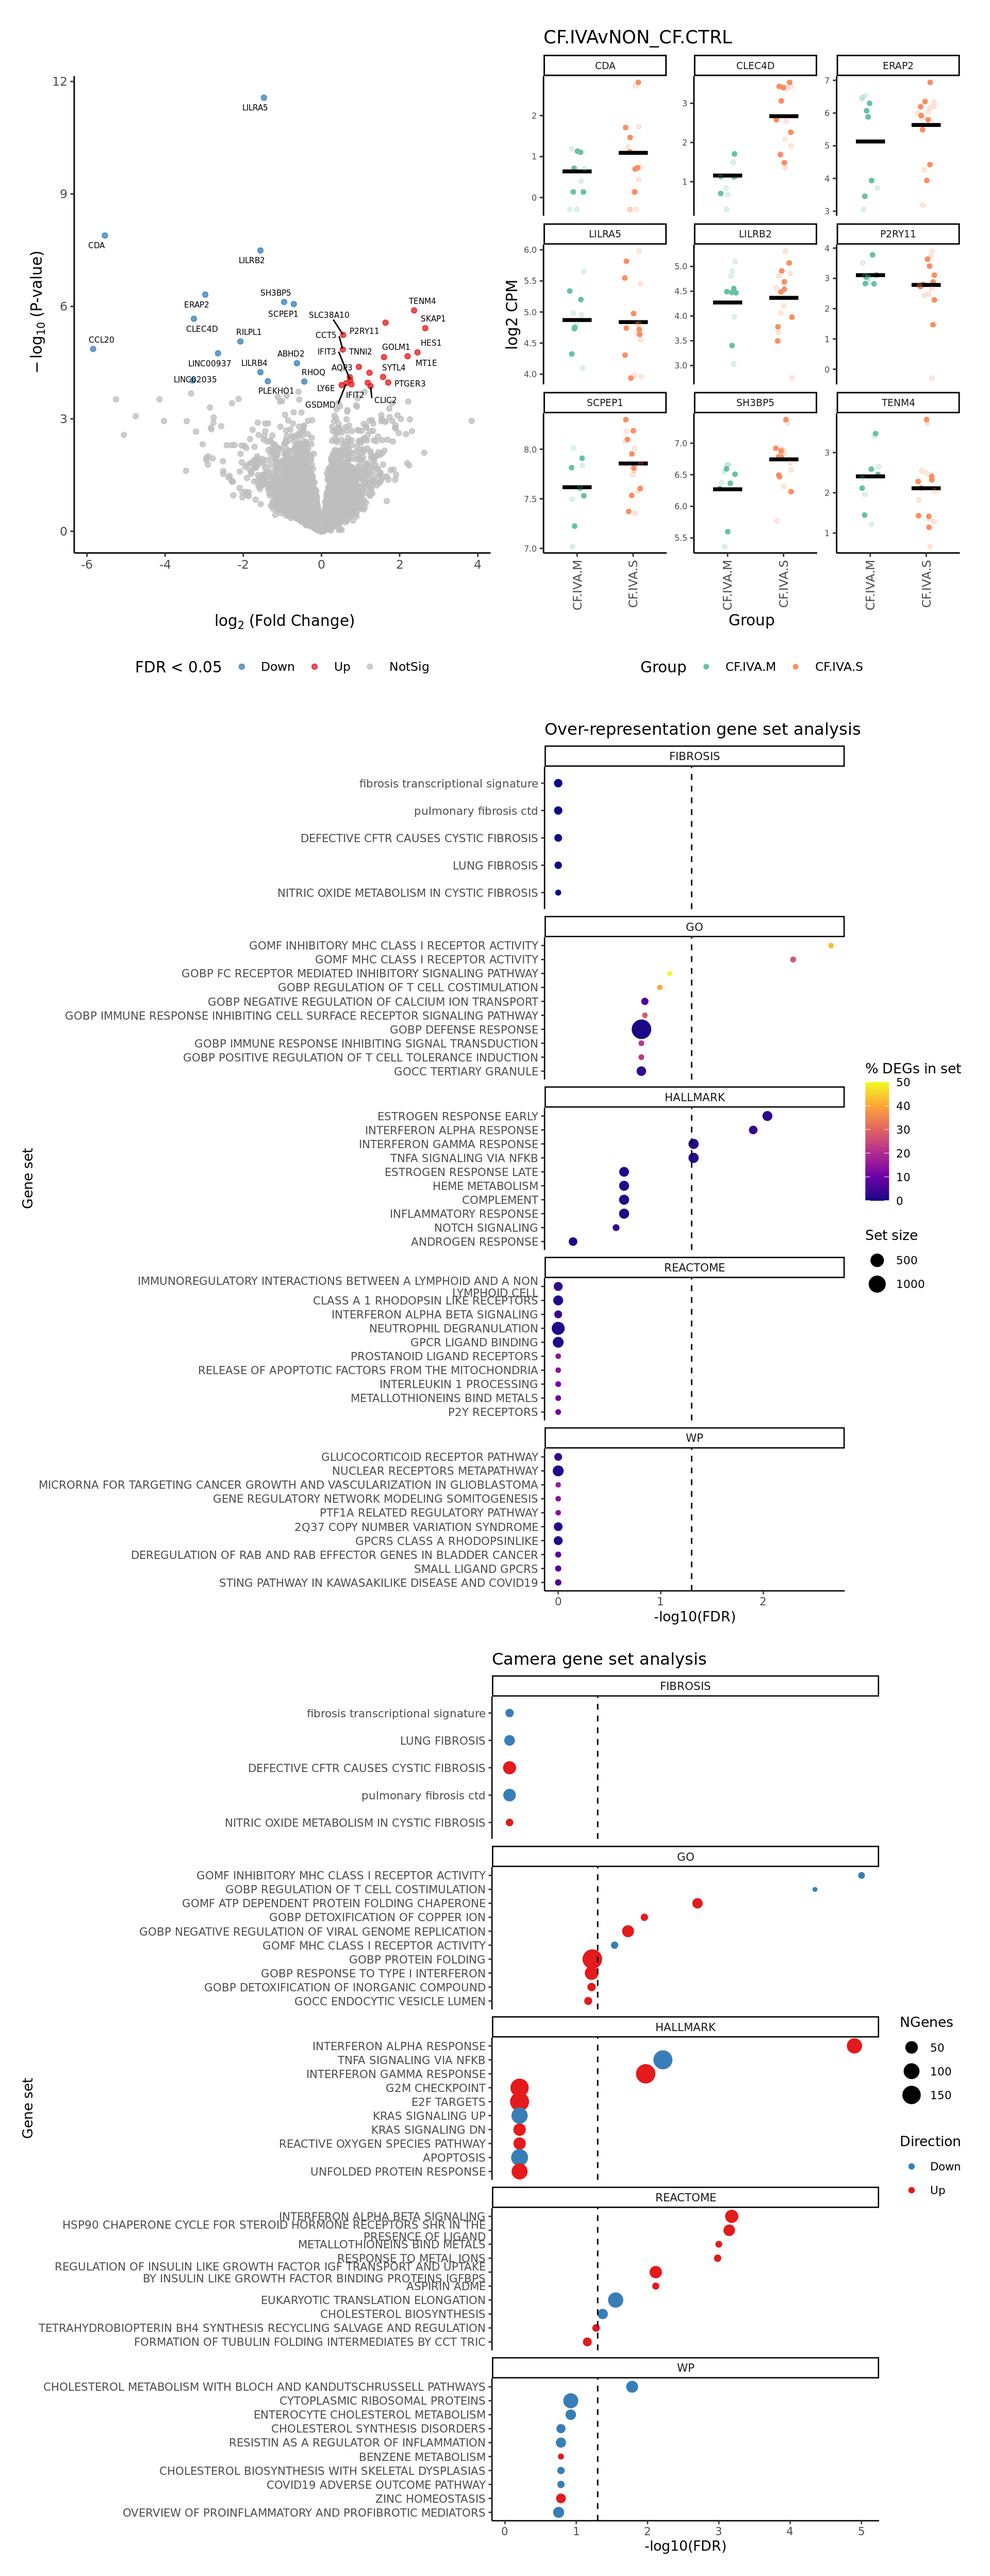
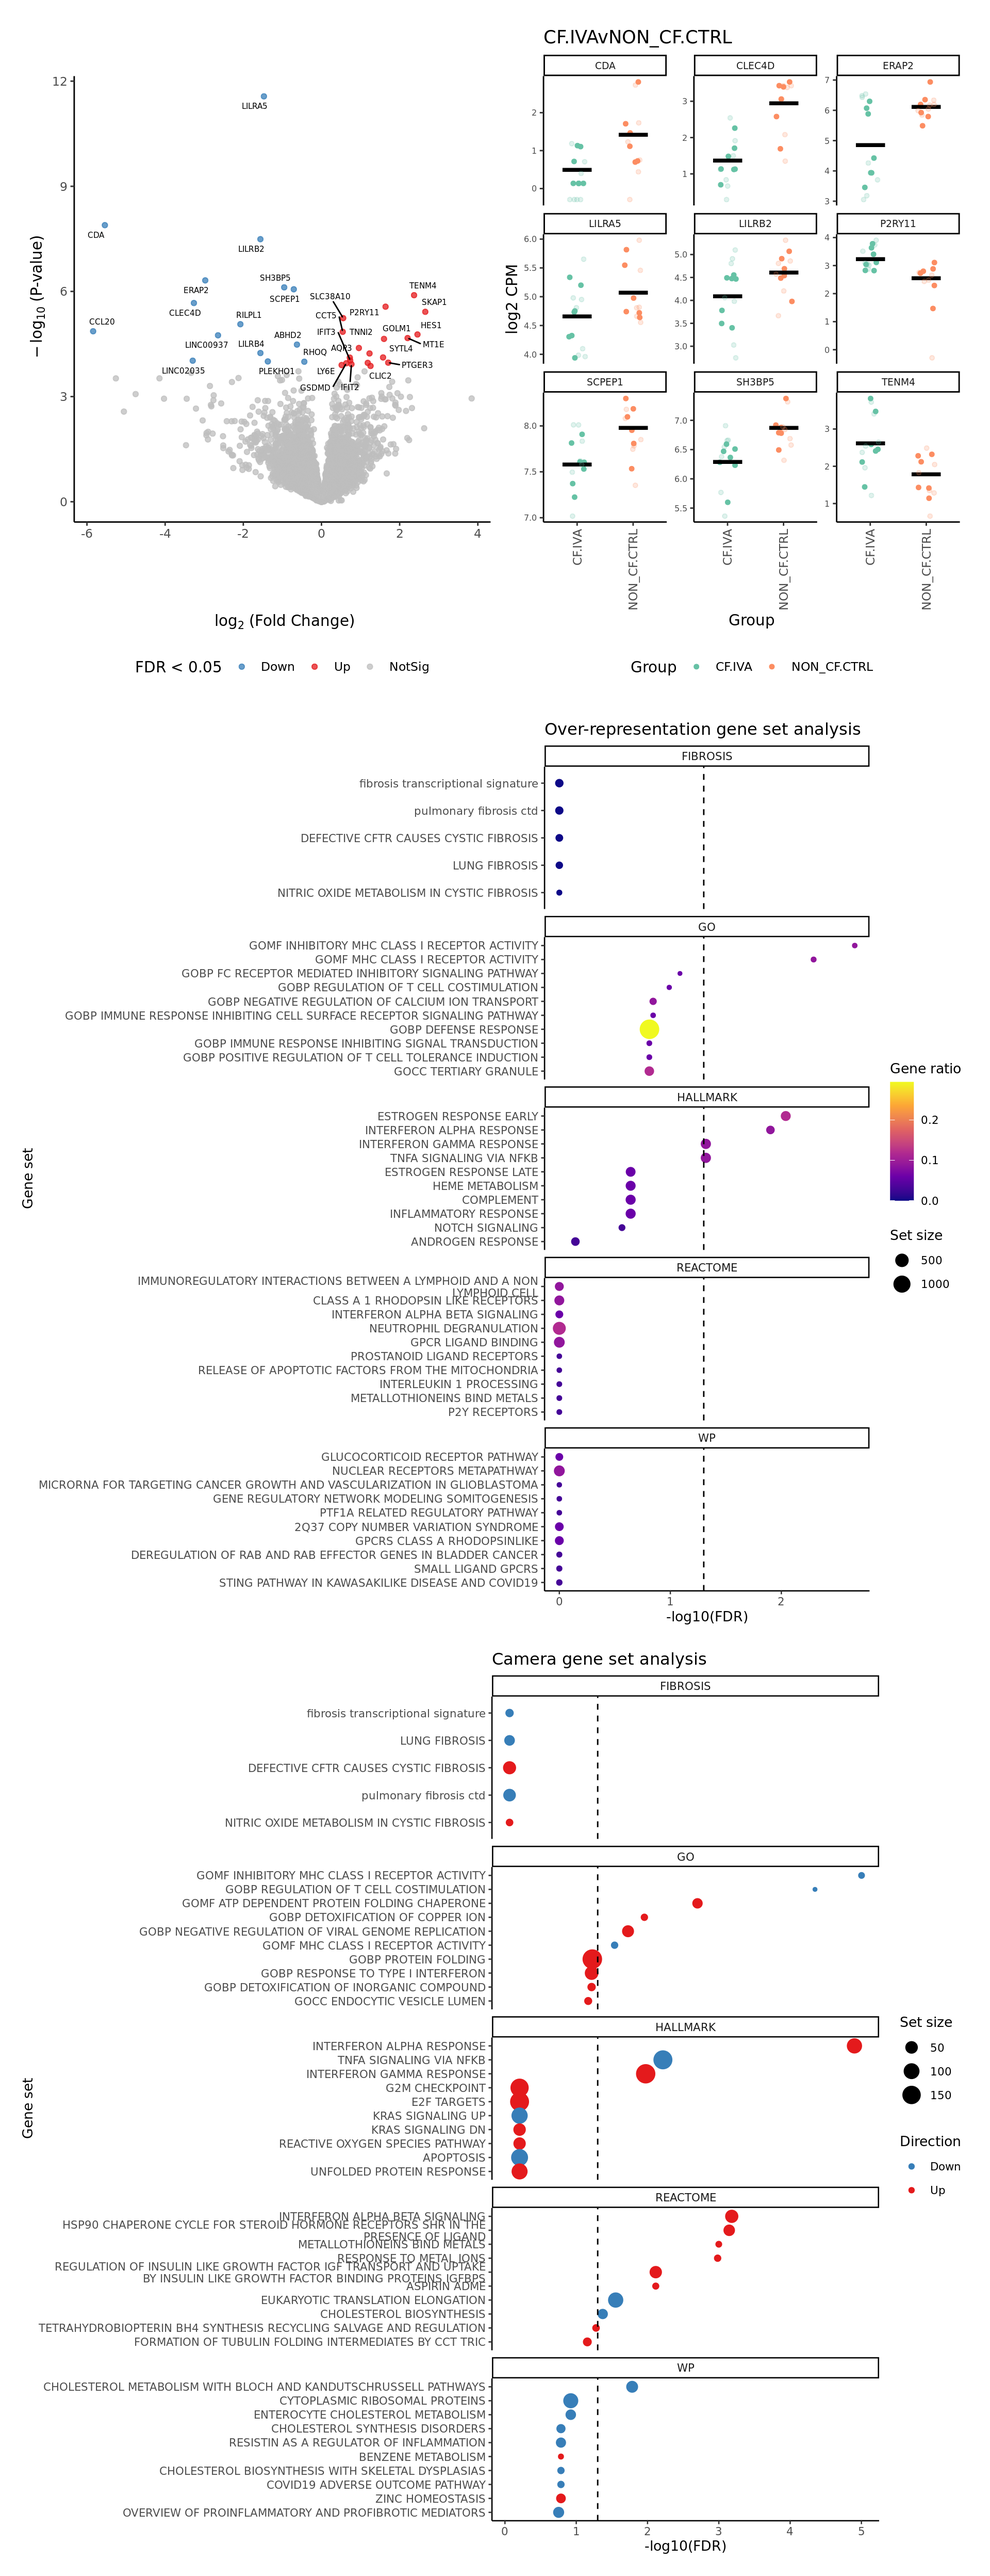
Build site.

diff --git a/docs/13.2_DGE_analysis_macro-APOC2+.html b/docs/13.2_DGE_analysis_macro-APOC2+.html
@@ -11,7 +11,7 @@
 
 <meta name="author" content="Jovana Maksimovic" />
 
-<meta name="date" content="2024-12-06" />
+<meta name="date" content="2025-01-03" />
 
 <title>Inflammation of Paediatric Pulmonary Diseases</title>
 
@@ -356,7 +356,7 @@ Diseases</h1>
 <h3 class="subtitle">DGE analysis of CF status in APOC2+
 macrophages</h3>
 <h4 class="author">Jovana Maksimovic</h4>
-<h4 class="date">December 06, 2024</h4>
+<h4 class="date">January 03, 2025</h4>
 
 </div>
 
@@ -385,7 +385,7 @@ class="glyphicon glyphicon-ok text-success" aria-hidden="true"></span>
 <div class="tab-content">
 <div id="summary" class="tab-pane fade in active">
 <p>
-<strong>Last updated:</strong> 2024-12-06
+<strong>Last updated:</strong> 2025-01-03
 </p>
 <p>
 <strong>Checks:</strong> <span
@@ -516,15 +516,15 @@ project makes it easier to run your code on other machines.</p>
 <div class="panel panel-default">
 <div class="panel-heading">
 <p class="panel-title">
-<a data-toggle="collapse" data-parent="#workflowr-checks" href="#strongRepositoryversionstrongahrefhttpsatlassianpetermacorgaubitbucketscmospaedinflammationciteseqtree96a0e5bfc4c00a1d5e03563df54fa9334082a2ddtargetblank96a0e5ba">
+<a data-toggle="collapse" data-parent="#workflowr-checks" href="#strongRepositoryversionstrongahrefhttpsatlassianpetermacorgaubitbucketscmospaedinflammationciteseqtree31203d7e2386f9af190523064bf2a0150bf4ed07targetblank31203d7a">
 <span class="glyphicon glyphicon-ok text-success"
 aria-hidden="true"></span> <strong>Repository version:</strong>
-<a href="https://atlassian.petermac.org.au/bitbucket/scm/os/paed-inflammation-citeseq/tree/96a0e5bfc4c00a1d5e03563df54fa9334082a2dd" target="_blank">96a0e5b</a>
+<a href="https://atlassian.petermac.org.au/bitbucket/scm/os/paed-inflammation-citeseq/tree/31203d7e2386f9af190523064bf2a0150bf4ed07" target="_blank">31203d7</a>
 </a>
 </p>
 </div>
 <div
[2 lines of base64/hex data omitted]
 class="panel-collapse collapse">
 <div class="panel-body">
 <p>
@@ -534,7 +534,7 @@ reproducibility.
 </p>
 <p>
 The results in this page were generated with repository version
-<a href="https://atlassian.petermac.org.au/bitbucket/scm/os/paed-inflammation-citeseq/tree/96a0e5bfc4c00a1d5e03563df54fa9334082a2dd" target="_blank">96a0e5b</a>.
+<a href="https://atlassian.petermac.org.au/bitbucket/scm/os/paed-inflammation-citeseq/tree/31203d7e2386f9af190523064bf2a0150bf4ed07" target="_blank">31203d7</a>.
 See the <em>Past versions</em> tab to see a history of the changes made
 to the R Markdown and HTML files.
 </p>
@@ -559,17 +559,92 @@ Ignored files:
     Ignored:    renv/staging/
 
 Untracked files:
-    Untracked:  analysis/17.0_Figure_3.Rmd
+    Untracked:  analysis/14.0_DGE_analysis_T-cells.Rmd
+    Untracked:  analysis/99.0_Figure_1.Rmd
+    Untracked:  analysis/99.0_Figure_2.Rmd
+    Untracked:  analysis/99.0_Figure_3.Rmd
+    Untracked:  analysis/99.0_Figure_4.Rmd
+    Untracked:  analysis/99.0_Figure_5.Rmd
+    Untracked:  analysis/99.0_Supplementary_Figure_ADTs.Rmd
+    Untracked:  broad_markers_seurat.csv
     Untracked:  code/background_job.R
     Untracked:  code/reverse_modifier_severity_comparisons.sh
+    Untracked:  data/intermediate_objects/CD4 T cells.CF_samples.fit.rds
+    Untracked:  data/intermediate_objects/CD4 T cells.all_samples.fit.rds
+    Untracked:  data/intermediate_objects/CD8 T cells.CF_samples.fit.rds
+    Untracked:  data/intermediate_objects/CD8 T cells.all_samples.fit.rds
+    Untracked:  data/intermediate_objects/DC cells.CF_samples.fit.rds
+    Untracked:  data/intermediate_objects/DC cells.all_samples.fit.rds
+    Untracked:  data/intermediate_objects/T cells.CF_samples.fit.rds
+    Untracked:  data/intermediate_objects/T cells.all_samples.fit.rds
+    Untracked:  output/dge_analysis/T cells/
 
 Unstaged changes:
     Modified:   .gitignore
+    Modified:   analysis/06.0_azimuth_annotation.Rmd
     Modified:   analysis/09.0_integrate_cluster_macro_cells.Rmd
-    Modified:   analysis/14.0_proportions_analysis_ann_level_1.Rmd
-    Modified:   analysis/15.0_Figure_1.Rmd
-    Modified:   analysis/16.0_Figure_2.Rmd
+    Modified:   analysis/13.1_DGE_analysis_macro-alveolar.Rmd
+    Deleted:    analysis/14.0_proportions_analysis_ann_level_1.Rmd
+    Deleted:    analysis/14.1_proportions_analysis_ann_level_3_non-macrophages.Rmd
+    Deleted:    analysis/14.2_proportions_analysis_ann_level_3_macrophages.Rmd
+    Deleted:    analysis/15.0_Figure_1.Rmd
+    Deleted:    analysis/16.0_Figure_2.Rmd
+    Deleted:    analysis/17.0_Supplementary_Figure_ADTs.Rmd
+    Modified:   analysis/index.Rmd
     Modified:   code/utility.R
+    Modified:   data/cluster_annotations/marker_proteins_TNK_supp.xlsx
+    Modified:   data/cluster_annotations/marker_proteins_macrophages_supp.xlsx
+    Modified:   data/cluster_annotations/marker_proteins_other_supp.xlsx
+    Modified:   data/cluster_annotations/seurat_markers_all_cells.rds
+    Modified:   data/intermediate_objects/macro-alveolar.CF_samples.fit.rds
+    Modified:   data/intermediate_objects/macro-alveolar.all_samples.fit.rds
+    Modified:   data/intermediate_objects/macrophages.CF_samples.fit.rds
+    Modified:   data/intermediate_objects/macrophages.all_samples.fit.rds
+    Modified:   output/dge_analysis/macro-alveolar/ORA.FIBROSIS.CF.IVAvCF.NO_MOD.csv
+    Modified:   output/dge_analysis/macro-alveolar/ORA.FIBROSIS.CF.IVAvNON_CF.CTRL.csv
+    Modified:   output/dge_analysis/macro-alveolar/ORA.FIBROSIS.CF.NO_MOD.SvCF.NO_MOD.M.csv
+    Modified:   output/dge_analysis/macro-alveolar/ORA.FIBROSIS.CF.NO_MODvNON_CF.CTRL.csv
+    Modified:   output/dge_analysis/macro-alveolar/ORA.GO.CF.IVAvCF.NO_MOD.csv
+    Modified:   output/dge_analysis/macro-alveolar/ORA.GO.CF.IVAvNON_CF.CTRL.csv
+    Modified:   output/dge_analysis/macro-alveolar/ORA.GO.CF.NO_MOD.SvCF.NO_MOD.M.csv
+    Modified:   output/dge_analysis/macro-alveolar/ORA.GO.CF.NO_MODvNON_CF.CTRL.csv
+    Modified:   output/dge_analysis/macro-alveolar/ORA.HALLMARK.CF.IVAvCF.NO_MOD.csv
+    Modified:   output/dge_analysis/macro-alveolar/ORA.HALLMARK.CF.IVAvNON_CF.CTRL.csv
+    Modified:   output/dge_analysis/macro-alveolar/ORA.HALLMARK.CF.NO_MOD.SvCF.NO_MOD.M.csv
+    Modified:   output/dge_analysis/macro-alveolar/ORA.HALLMARK.CF.NO_MODvNON_CF.CTRL.csv
+    Modified:   output/dge_analysis/macro-alveolar/ORA.REACTOME.CF.IVAvCF.NO_MOD.csv
+    Modified:   output/dge_analysis/macro-alveolar/ORA.REACTOME.CF.IVAvNON_CF.CTRL.csv
+    Modified:   output/dge_analysis/macro-alveolar/ORA.REACTOME.CF.NO_MOD.SvCF.NO_MOD.M.csv
+    Modified:   output/dge_analysis/macro-alveolar/ORA.REACTOME.CF.NO_MODvNON_CF.CTRL.csv
+    Modified:   output/dge_analysis/macro-alveolar/ORA.WP.CF.IVAvCF.NO_MOD.csv
+    Modified:   output/dge_analysis/macro-alveolar/ORA.WP.CF.IVAvNON_CF.CTRL.csv
+    Modified:   output/dge_analysis/macro-alveolar/ORA.WP.CF.NO_MOD.SvCF.NO_MOD.M.csv
+    Modified:   output/dge_analysis/macro-alveolar/ORA.WP.CF.NO_MODvNON_CF.CTRL.csv
+    Modified:   output/dge_analysis/macrophages/ORA.FIBROSIS.CF.IVAvCF.NO_MOD.csv
+    Modified:   output/dge_analysis/macrophages/ORA.FIBROSIS.CF.IVAvNON_CF.CTRL.csv
+    Modified:   output/dge_analysis/macrophages/ORA.FIBROSIS.CF.LUMA_IVAvCF.NO_MOD.csv
+    Modified:   output/dge_analysis/macrophages/ORA.FIBROSIS.CF.NO_MOD.SvCF.NO_MOD.M.csv
+    Modified:   output/dge_analysis/macrophages/ORA.FIBROSIS.CF.NO_MODvNON_CF.CTRL.csv
+    Modified:   output/dge_analysis/macrophages/ORA.GO.CF.IVAvCF.NO_MOD.csv
+    Modified:   output/dge_analysis/macrophages/ORA.GO.CF.IVAvNON_CF.CTRL.csv
+    Modified:   output/dge_analysis/macrophages/ORA.GO.CF.LUMA_IVAvCF.NO_MOD.csv
+    Modified:   output/dge_analysis/macrophages/ORA.GO.CF.NO_MOD.SvCF.NO_MOD.M.csv
+    Modified:   output/dge_analysis/macrophages/ORA.GO.CF.NO_MODvNON_CF.CTRL.csv
+    Modified:   output/dge_analysis/macrophages/ORA.HALLMARK.CF.IVAvCF.NO_MOD.csv
+    Modified:   output/dge_analysis/macrophages/ORA.HALLMARK.CF.IVAvNON_CF.CTRL.csv
+    Modified:   output/dge_analysis/macrophages/ORA.HALLMARK.CF.LUMA_IVAvCF.NO_MOD.csv
+    Modified:   output/dge_analysis/macrophages/ORA.HALLMARK.CF.NO_MOD.SvCF.NO_MOD.M.csv
+    Modified:   output/dge_analysis/macrophages/ORA.HALLMARK.CF.NO_MODvNON_CF.CTRL.csv
+    Modified:   output/dge_analysis/macrophages/ORA.REACTOME.CF.IVAvCF.NO_MOD.csv
+    Modified:   output/dge_analysis/macrophages/ORA.REACTOME.CF.IVAvNON_CF.CTRL.csv
+    Modified:   output/dge_analysis/macrophages/ORA.REACTOME.CF.LUMA_IVAvCF.NO_MOD.csv
+    Modified:   output/dge_analysis/macrophages/ORA.REACTOME.CF.NO_MOD.SvCF.NO_MOD.M.csv
+    Modified:   output/dge_analysis/macrophages/ORA.REACTOME.CF.NO_MODvNON_CF.CTRL.csv
+    Modified:   output/dge_analysis/macrophages/ORA.WP.CF.IVAvCF.NO_MOD.csv
+    Modified:   output/dge_analysis/macrophages/ORA.WP.CF.IVAvNON_CF.CTRL.csv
+    Modified:   output/dge_analysis/macrophages/ORA.WP.CF.LUMA_IVAvCF.NO_MOD.csv
+    Modified:   output/dge_analysis/macrophages/ORA.WP.CF.NO_MOD.SvCF.NO_MOD.M.csv
+    Modified:   output/dge_analysis/macrophages/ORA.WP.CF.NO_MODvNON_CF.CTRL.csv
 
 </code></pre>
 <p>
@@ -616,6 +691,40 @@ Message
 </tr>
 </thead>
 <tbody>
+<tr>
+<td>
+Rmd
+</td>
+<td>
+<a href="https://atlassian.petermac.org.au/bitbucket/scm/os/paed-inflammation-citeseq/blob/31203d7e2386f9af190523064bf2a0150bf4ed07/analysis/13.2_DGE_analysis_macro-APOC2+.Rmd" target="_blank">31203d7</a>
+</td>
+<td>
+Jovana Maksimovic
+</td>
+<td>
+2025-01-03
+</td>
+<td>
+wflow_publish("analysis/13.2_DGE_analysis_macro-APOC2+.Rmd")
+</td>
+</tr>
+<tr>
+<td>
+html
+</td>
+<td>
+<a href="https://atlassian.petermac.org.au/bitbucket/scm/os/paed-inflammation-citeseq/blob/f726c5f5276cfe2e57711f37a8b4f5435b805ffb/docs/13.2_DGE_analysis_macro-APOC2+.html" target="_blank">f726c5f</a>
+</td>
+<td>
+Jovana Maksimovic
+</td>
+<td>
+2024-12-06
+</td>
+<td>
+Build site.
+</td>
+</tr>
 <tr>
 <td>
 Rmd
@@ -3524,7 +3633,10 @@ Jovana Maksimovic
 <p>Save the contrast matrix, <code>edgeR</code> fit object and
 <code>RUVseq</code> adjusted data as an RDS object for downstream use in
 plotting, etc.</p>
-<pre class="r"><code># save LRT results
+<pre class="r"><code># Save group in fit object:
+fit$samples$group &lt;- group
+
+# save LRT results
 deg_results &lt;- list(
   contr = contr,
   fit = fit,
@@ -3583,7 +3695,8 @@ plot_ruv_results_summary(contr, cutoff, cellDir, gene_sets_list, gns,
                          group_info = data.frame(Group = group, 
                                                  sample = rownames(ySub$samples)),
                          layout,
-                         pal) -&gt; p
+                         pal,
+                         severity = rep(FALSE, ncol(contr))) -&gt; p
 p</code></pre>
 <pre><code>[[1]]
 NULL
@@ -5646,7 +5759,10 @@ Jovana Maksimovic
 <p>Save the contrast matrix, <code>edgeR</code> fit object and
 <code>RUVseq</code> adjusted data as an RDS object for downstream use in
 plotting, etc.</p>
-<pre class="r"><code># save LRT results
+<pre class="r"><code># Save group in fit object:
+fit$samples$group &lt;- group
+
+# save LRT results
 deg_results &lt;- list(
   contr = contr,
   fit = fit,
@@ -5704,7 +5820,8 @@ plot_ruv_results_summary(contr, cutoff, cellDir, gene_sets_list, gns,
                          group_info = data.frame(Group = group,
                                                  sample = rownames(ySub$samples)),
                          layout,
-                         pal) -&gt; p
+                         pal,
+                         severity = c(FALSE, FALSE, TRUE)) -&gt; p
 p</code></pre>
 <pre><code>[[1]]</code></pre>
 <p><img src="figure/13.2_DGE_analysis_macro-APOC2+.Rmd/unnamed-chunk-53-1.png" width="960" style="display: block; margin: auto;" /></p>
